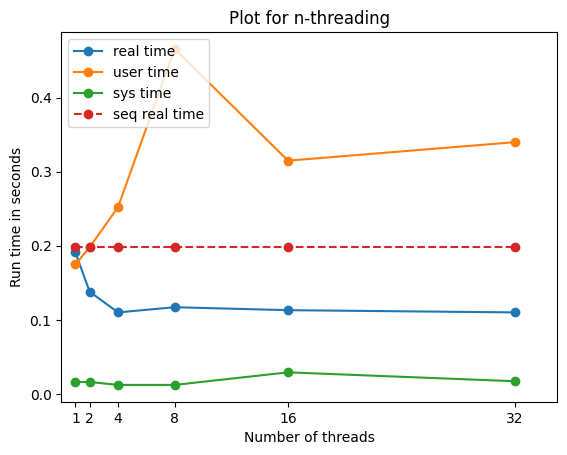
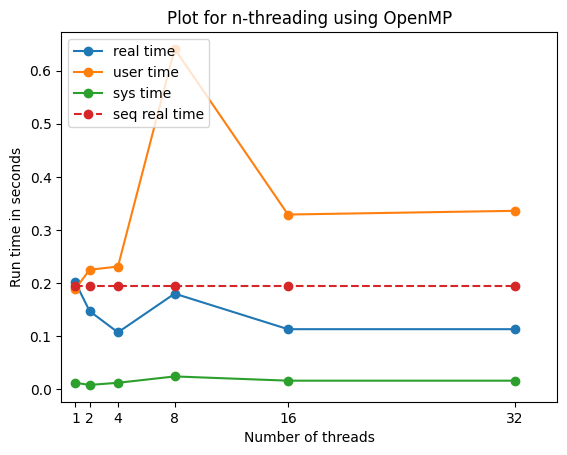
for submission

diff --git a/report/report.tex b/report/report.tex
@@ -20,7 +20,7 @@
 \graphicspath{ {./images/} }
 
 \usepackage[usenames, dvipsnames]{xcolor}
-v\definecolor{dkgray}{rgb}{.4,.4,.4}
+\definecolor{dkgray}{rgb}{.4,.4,.4}
 \definecolor{dkred}{rgb}{.4,0,0}
 \definecolor{dkgreen}{rgb}{0,.4,0}
 \definecolor{dkblue}{rgb}{0,0,.4}
@@ -62,7 +62,7 @@ v\definecolor{dkgray}{rgb}{.4,.4,.4}
 
 \begin{document}
 \section{Introduction}
-In this report, I document my findings with exploring four more versions of the \texttt{matmul} program: one with $2$ processes, one with $N $ processes, one with $N$ threads, and one using OpenMP. I describe my implementation for each of them before finally showing some plots that compare their runtime across the number of cores used. The code and artefacts are available in the associated folder.
+In this report, I document my findings with exploring four more versions of the \texttt{matmul} program: one with $2$ processes, one with $N $ processes, one with $N$ threads, and one using OpenMP across $N$ threads. I describe my implementation for each of them before finally showing some plots that compare their runtime across the number of cores used. The code and artefacts are available in the associated folder, with the \texttt{.tex} file of this report available in the ``report'' folder.
 \section{Implementation}
 \subsection{2 Processes \texttt{matmul}}
 Firstly, we improve upon the naive sequential implementation of \texttt{matmul}. Matrix multiplication as implemented in \texttt{mm\_seq} is inherently parallelizable since accessing the two matrices to perform the multiplication does not change the matrices, so there won't be a race condition. Thus, we can divide the work in half by invoking a new process and having it do one-half of the total multiplications. The only difficulty is handling shared memory - we first construct a ``shared'' matrix to store the result in. Then, when we are done, we copy the matrix into our result matrix $C$, taking care to unmap the memory allocated to the ``shared'' matrix.
@@ -174,19 +174,25 @@ See: \texttt{mm\_openmp.c}
 
 Essentially, \texttt{\#pragma omp parallel for} starts a team of threads (whose number is determined at runtime) to delegate portion of the \texttt{for}-loop to. \texttt{shared(A,B,C)} just informs OpenMP what memory is able to be shared, and \texttt{private(x,y,d)} says what is private.
 
+To determine the number of threads that \texttt{OpenMP} has access to, we add a flag \texttt{OMP\_NUM\_THREADS=x} where $x$ is the number of threads desired before executing the program.
+
 \section{Evaluation}
 To generate the plots for this section, just run \texttt{make graphs} from the \texttt{matmul\_process\_and\_threads} directory. Please pardon my amateur-ish attempt at automating it using the Makefile and python scripting. The requirements are that you have \texttt{python3} and \texttt{matplotlib} library for \texttt{python} installed (works for python 2 as well I think but I worked in python 3).
 
-\begin{figure}[!h]
-\centering  \includegraphics[width=0.5\textwidth]{others}
+\begin{figure}[h]
+  \begin{subfigure}[t]{.5\textwidth}
+\centering  \includegraphics[width=\textwidth]{others}
 \label{fig: mm_seq and mm_openmp}
 \caption{Run time for mm\_seq and mm\_openmp}
-\end{figure}
 
-In figure 1, we simply have a horizontal line for the runtime since sequential matrix multiplication is, well, sequential, and because OpenMP determines at runtime the optimal number of cores, so it is fixed. We see that the OpenMP implementation is significantly faster than the naive sequential one in terms of real time (blue line v.s. red line). However, since OpenMP uses significant multithreading, the user time for OpenMP matrix multiplication (purple line) is very high which signifies the usage of multiple cores and threads.
-
-  \begin{figure}[!h]
-  \begin{subfigure}[t]{.5\textwidth}
+  \end{subfigure}
+  \hfill
+  \begin{subfigure}[t]{.55\textwidth}
+    \centering
+    \includegraphics[width=\textwidth]{mm_openmp.png}
+    \caption{Run time for mm\_openmp}
+  \end{subfigure}
+    \begin{subfigure}[t]{.5\textwidth}
     \centering    \includegraphics[width=\linewidth]{mm_procn.png}
     \caption {Run time for mm\_procn}
     %\label{fig:draketl}
@@ -198,10 +204,25 @@ In figure 1, we simply have a horizontal line for the runtime since sequential m
     \caption{Run time for mm\_threadsn}
         %\label{fig:draketr}
   \end{subfigure}
+
 \end{figure}
 
-For \texttt{mm\_procn} and \texttt{mm\_threadsn}, we compare their real, user, and sys times as well. We also overlay the previous sequential and OpenMP real runtimes just for easier comparison. Looking at figures (a) and (b), we see that for both implementations, the real run time (blue line) decreases as more threads are being used (tested on 1,2,4,8,16,32 threads). As one expects, as the number of threads increases, and the real run time decreases, the user time (orange line) increases as the total CPU time is increased since we utilize more of it. We see that the improvements to real runtime stabilizes after around 16 threads, which is probably the upper limit of actual hardware threads available, and after that the threads are just software threads being spawned that don't improve the runtime. We see that both \texttt{mm\_threadsn} and \texttt{mm\_procn} perform comparably to \texttt{OpenMP} after 8 threads, which is wonderful because it means my implementation was almost as efficient.
+In figure (a), we simply have a horizontal line for the runtime since sequential matrix multiplication is, well, sequential, and because OpenMP determines at runtime the optimal number of cores, so it is fixed. We see that the OpenMP implementation is significantly faster than the naive sequential one in terms of real time (blue line v.s. red line). However, since OpenMP uses significant multithreading, the user time for OpenMP matrix multiplication (purple line) is very high which signifies the usage of multiple cores and threads.
 
+
+
+For \texttt{mm\_procn} and \texttt{mm\_threadsn}, we compare their real, user, and sys times as well. Furthermore, since we can also change the number of threads that \texttt{OpenMP} uses, we also attach the results of that change here. They are represented by figures (b),(c), and (d) respectively. We also overlay the previous sequential real runtimes just for easier comparison. Looking at figures (b),(c), and (d), we see that for all three implementations, the real run time (blue line) decreases as more threads are being used (tested on 1,2,4,8,16,32 threads). As one expects, as the number of threads increases, and the real run time decreases, the user time (orange line) increases as the total CPU time is increased since we utilize more of it. We see that the improvements to real runtime stabilizes after around 16 threads, which is probably the upper limit of actual hardware threads available in my computer, and after that the threads are just software threads being spawned that don't improve the runtime. We see that both \texttt{mm\_threadsn} and \texttt{mm\_procn} perform comparably to \texttt{OpenMP} after 8 threads, which is wonderful because it means my implementation was almost as efficient.
+
+Finally, we compare the real runtime of all four matrix multiplication implementations:\\
+\begin{centering}
+     \includegraphics[width=0.5\linewidth]{allrealtime.png}
+\end{centering}
+
+And we can conclude that \texttt{mm\_openmp} appears to perform tangentially better than the other two multi-threaded/core implementations, probably because they have other optimizations put in place whereas our implementations of $n$-threading or processes were just naive implementations.
+
+\section{Concluding remarks}
+
+In conclusion, in this report we have explored four different implementations of matrix multiplication: sequential, with $n$-threads, with $n$-processes, and with the OpenMP framework. In the evaluations of the implementation, we see that the OpenMP implementation performs slightly better than ours, probably because of some micro-optimizations that they perform like accounting for cache-misses or doing loop-unrolling. Nevertheless, it demonstrates that even a naive implementation of concurrency/parallelism can speed up the efficiency of a program by a large factor.
 \end{document}
 
 %%% Local Variables:

diff --git a/plot.py b/plot.py
@@ -39,9 +39,12 @@ def plot(res, curr_mm_name):
         
         plt.xlim(0,35)
         plt.xticks([int(x) for x in no_of_threads])
-        if curr_mm_name == "mm_threadsn" or curr_mm_name == "mm_openmp":
+        if curr_mm_name == "mm_threadsn":
             plt.xlabel("Number of threads")
             plt.title("Plot for n-threading")
+        elif curr_mm_name == "mm_openmp":
+            plt.xlabel("Number of threads")
+            plt.title("Plot for n-threading using OpenMP")
         else:
             plt.xlabel("Number of processes")
             plt.title("Plot for n-processes")

diff --git a/README.md b/README.md
@@ -1,23 +1,19 @@
-# matmul
+# Matmul Process and Threads
 
 Matrix Multiplication Benchmarks
 
-## Task 1
+## Report
 
-  Write a mm_test.c program that do in order:
-    - takes as an argument one of the test file,
-    - Read the file from which it loads 3 matrices A,B and C
-    - run mm(A,B,D) and make sure C == D
-    - the ouput is formated the same as in test file,
-      except that it is not N,A,B,C but N,A,B,D.   
+The report is available in the main directory as "report.pdf". The source code for the report is available in the "report" folder.
 
+## Graphs for benchmarks
 
-## Task 2
+You can generate the graphs for the benchmarks that are in the report by typing
 
-   Edit the Makefile in order to run the tests.
-   When we type make test, we expect to compile and run a tester for every single implementation of mm (mm_seq, mm_proc, mm_gol, etc...).
+```
+make graphs
+```
 
+This will generate the individual graphs for each matrix multiplication method, as well as a combined graph for the real time taken for all the methods.
 
-## Task 3
-
-   Edit the Makefile so that when we type `make mmf_seq` instead of `make mm_seq`, then a floating point version of the matrix multiplication is compiled using the `-DDOUBLE_MM` preprocessing parameter.
+More information is available in the `Makefile` and the report. The graphs are generated using python libraries in `main.py` and `plot.py`.
